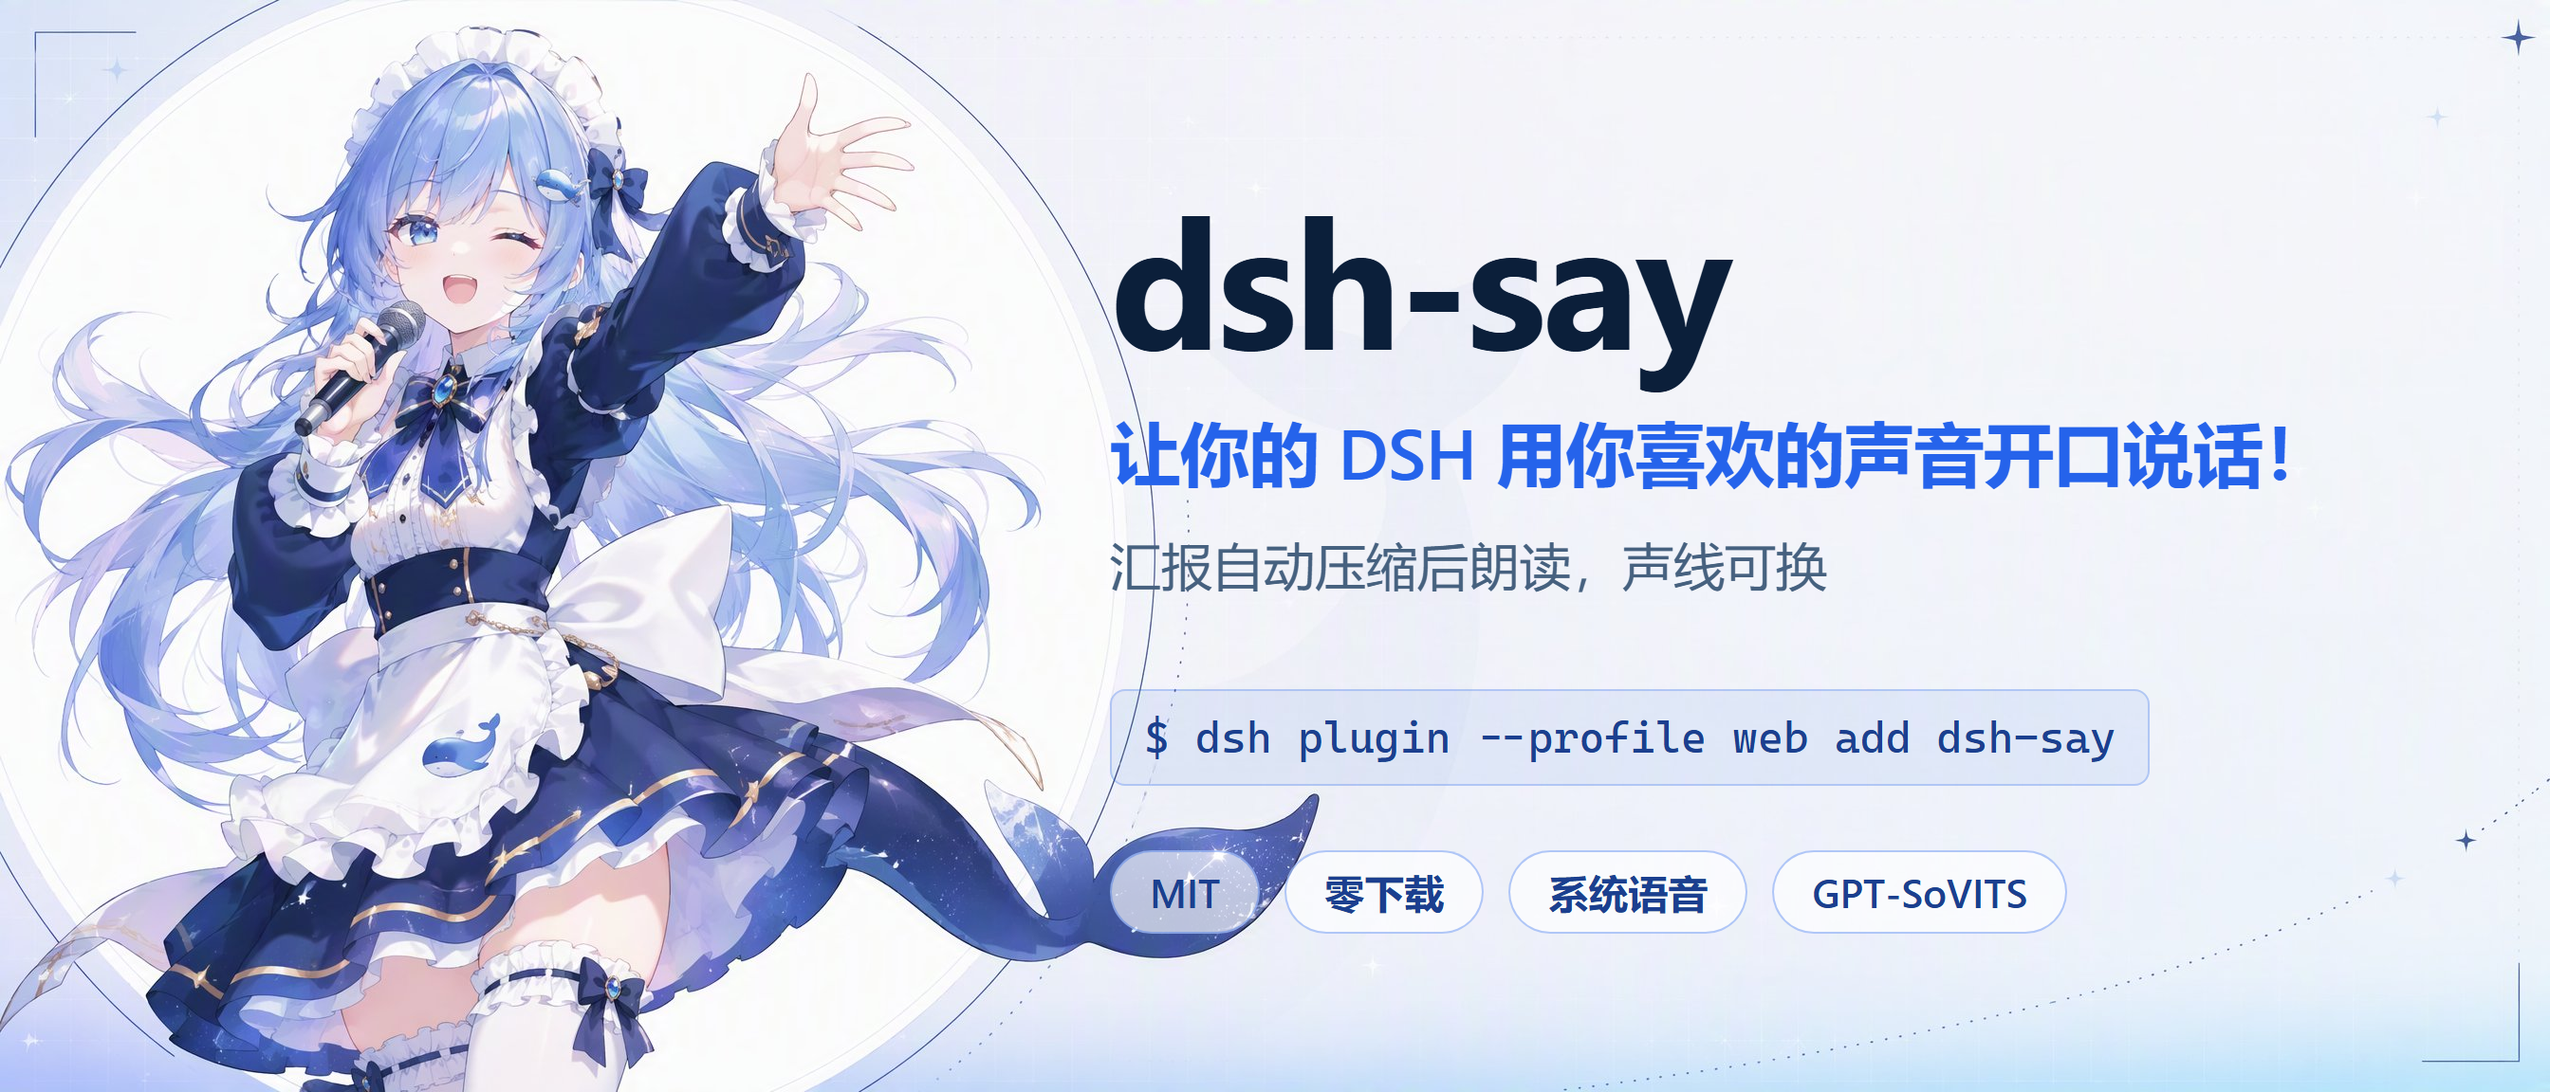
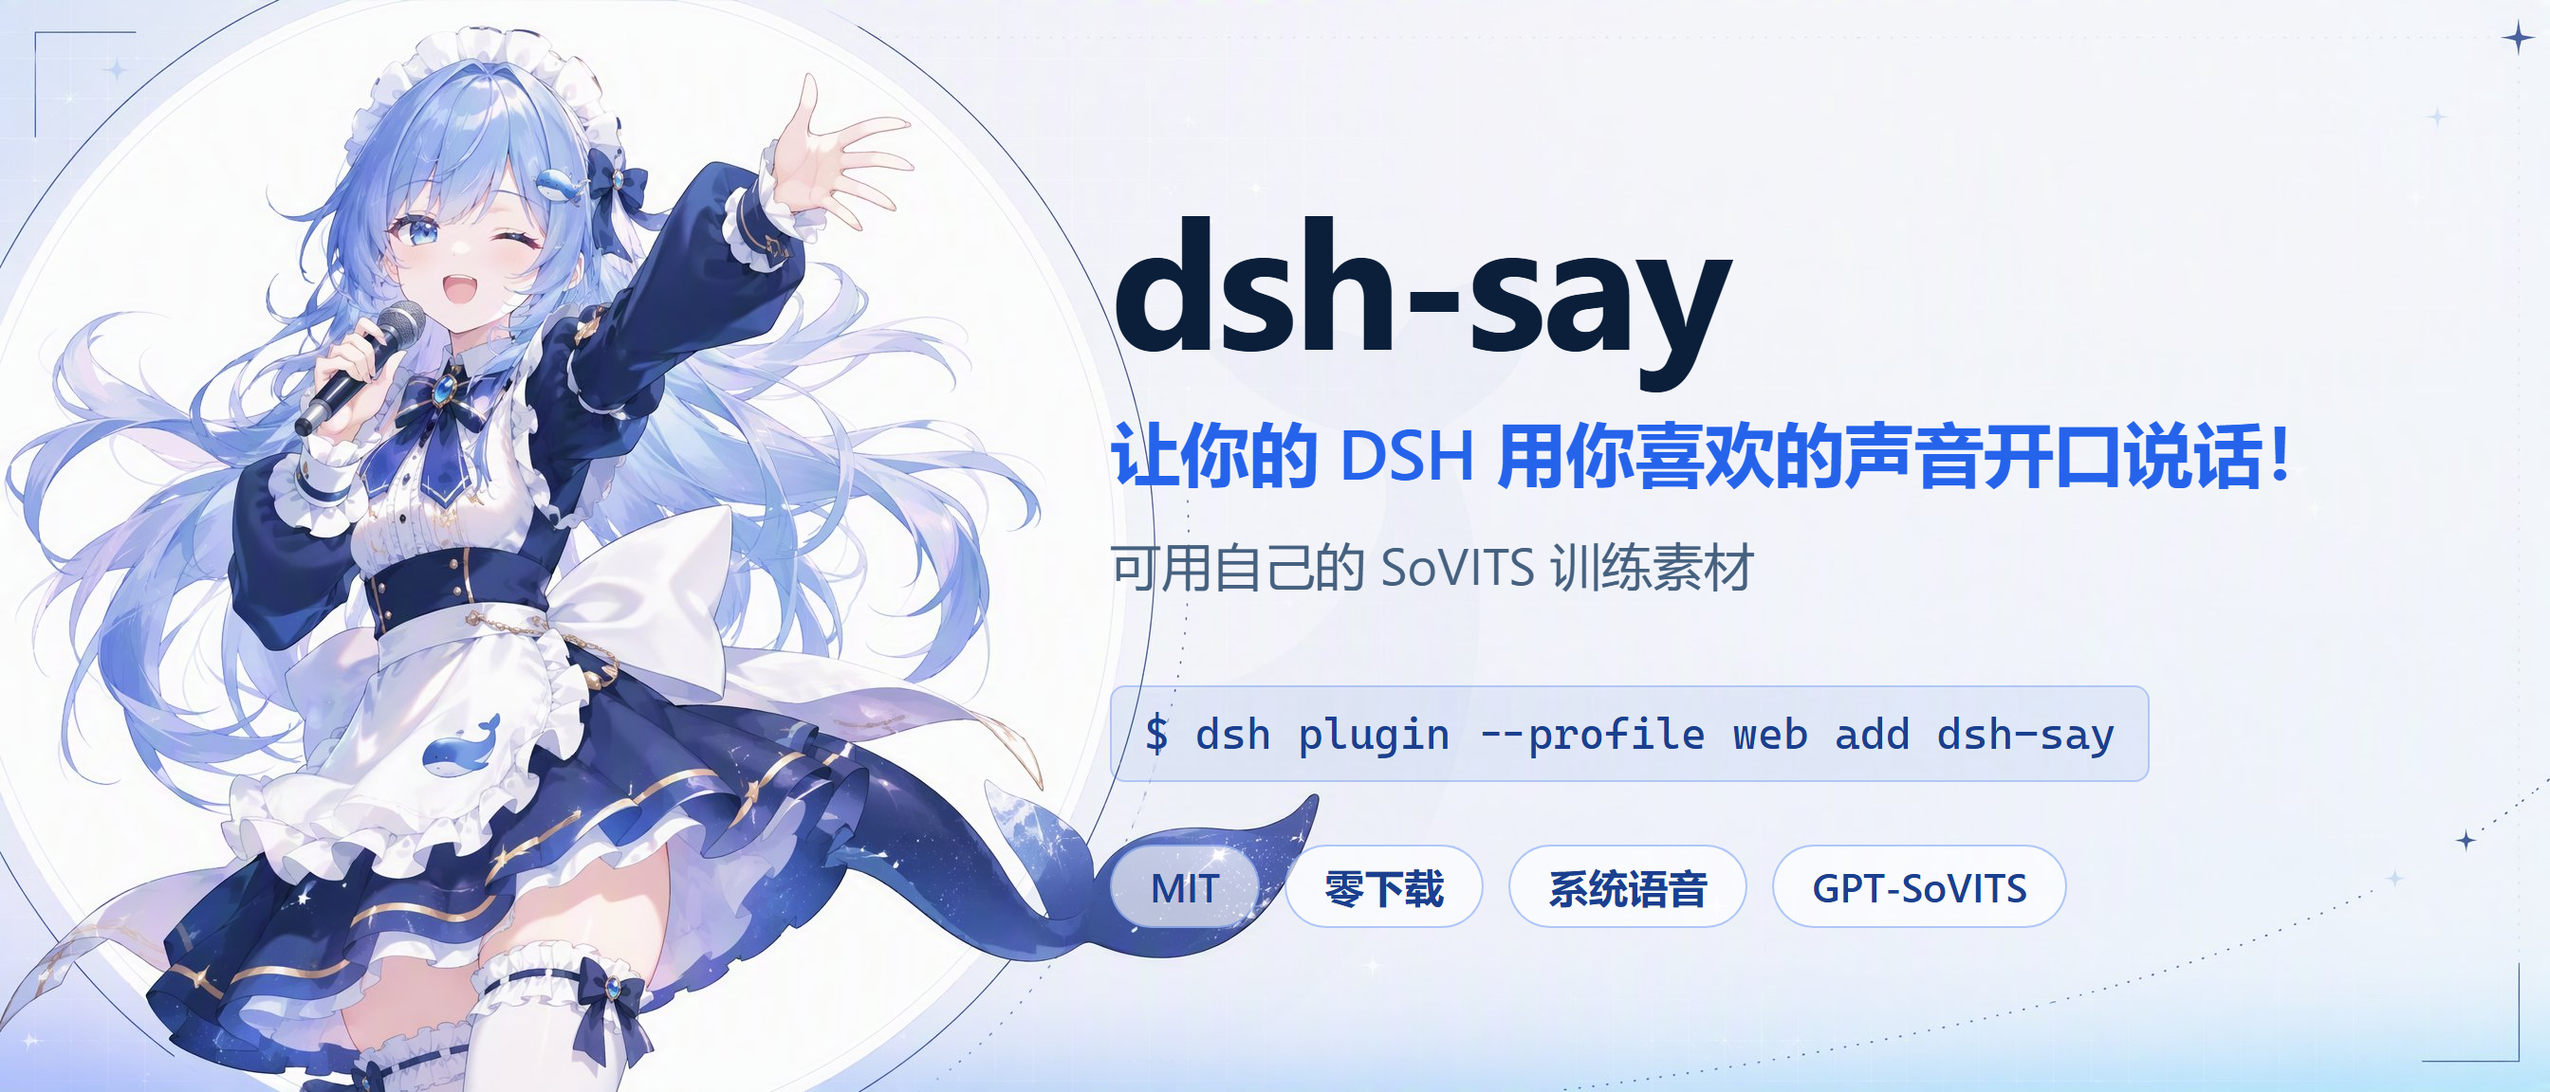
Use one standard notice everywhere, add npx install, and prompt for the engine
The declaration was three different things in eleven files: a table of owners, a
statement that the project could not license the material, a list of PRC Civil Code
articles, and a note that the file was not a license. All of it replaced by the one
sentence this space actually uses:

  本声音资源仅供学习交流，严禁用于商业用途，如有侵权，请联系作者，作者得知后会于24小时内删除。

It now appears in the repository notice, the archive notice, the site, the README,
and as the default a pack gets when registered without one (`STANDARD_NOTICE` in
lib/tools.js) - so the wording changes in one place and is checked in one place.
The base models keep their Apache-2.0 and MIT attribution: that is a condition of
redistributing them, not our own statement. The smoke test asserts the sentence and
that attribution, where it used to assert the wording that was removed.

npx: there was no `bin`, so `npx dsh-say` could not install anything. `bin/cli.mjs`
now runs `dsh plugin --profile <p> add dsh-say` with a default profile, `--profile`
to change it, `--print` to see the command, and a named error listing the profiles
that exist rather than a pnpm failure about a missing directory. It ends by saying
the one thing it cannot do: the profile has to be restarted.

The engine prompt: onboarding asked whether to import a voice, then left the user to
discover that nothing could speak it. It now receives engine availability and, when
there is no working GPT-SoVITS, produces an explicit instruction - the official
[…]

Changed region(s): [[0.4375, 0.625, 0.8438, 0.7188], [0.4375, 0.75, 0.8125, 0.875], [0.4375, 0.5, 0.7188, 0.5625]]

diff --git a/lib/onboarding.js b/lib/onboarding.js
@@ -111,11 +111,20 @@ function questions(installedVoice) {
  * @param {object} [options.agent] the exact live calling Agent (required: a
  *   question asked from a delegated child has no human answerer and blocks)
  * @param {string} [options.installedVoice] the voice pack currently registered
+ * @param {boolean} [options.engineAvailable] whether GPT-SoVITS can run here
+ * @param {string} [options.engineBusyReason] why it cannot, when it cannot
  * @param {AbortSignal} [options.signal]
  * @returns {Promise<{ status: 'asked'|'already-done'|'unavailable', answers?: object, note?: string }>}
  */
 export async function onboard(options) {
   const { userQuestions, agent, installedVoice, signal } = options
+  // Absent means "not determined" rather than "unavailable": a caller that cannot
+  // check the engine should not produce an installation prompt for it.
+  const engineAvailable = options.engineAvailable === true
+  const engineBusyReason = options.engineBusyReason || ''
+  // A registered pack is proof the user is after a character voice even if this
+  // run's answer is to keep the system one for now.
+  const hasVoicePack = Boolean(installedVoice)
 
   if (isOnboarded()) return { status: 'already-done' }
   if (!userQuestions || typeof userQuestions.ask !== 'function') {
@@ -172,8 +181,30 @@ export async function onboard(options) {
   writeSettings(settingsPatch)
 
   const todos = []
-  if (/导入别的声线/.test(voiceChoice)) {
-    todos.push('用户要导入别的声线：问清楚 GPT-SoVITS 的安装路径、模型权重位置、以及 3-10 秒参考音，然后用 tts_voices action=add 登记')
+  const wantsVoice = /导入别的声线/.test(voiceChoice)
+
+  // A character voice needs GPT-SoVITS running. Saying so at this point - rather
+  // than letting the user discover it when nothing comes out of the speakers - is
+  // the difference between a feature and a dead end, so the engine check produces
+  // an explicit instruction with the download link and the measured size.
+  if (engineAvailable !== true && (wantsVoice || hasVoicePack)) {
+    const official = 'https://huggingface.co/lj1995/GPT-SoVITS-windows-package/resolve/main/GPT-SoVITS-v3lora-20250228.7z'
+    todos.push(
+      [
+        '用户想要角色声线，但本机没有可用的 GPT-SoVITS 引擎' + (engineBusyReason ? `（${engineBusyReason}）` : ''),
+        '明确告诉用户这一步，不要说"已经装好了"',
+        '然后：',
+        `① 说明需要先有一个能跑的 GPT-SoVITS。官方 Windows 整合包 ${official}（6.4 GB，解压双击 _go-webui.bat 即可，不用装 Python）`,
+        '② 说明本项目的发布包给的是模型和声线，不是运行时；两者不冲突，且发布包比整合包小得多',
+        '③ 用户同意后，用 voice-setup 技能把声线装上：发布包下载到 Downloads 后跑 `node scripts/install-voice.mjs`（自动找到它），它会解压、把 base 模型铺进引擎、登记声线包',
+        '④ 装完用 tts_voices action=list 确认登记的是声线权重而不是 base 模型（gpt= 不该是 s1v3.ckpt，sovits= 不该是 s2Gv2ProPlus.pth）—— 选错时安装会报成功，只有听的时候才发现声音不对',
+      ].join('\n  '),
+    )
+  } else if (wantsVoice && installedVoice) {
+    todos.push('用户要改用已有的声线包：确认引擎可用后把它设为默认，然后念一句验证')
+  }
+  if (wantsVoice && !installedVoice && engineAvailable === true) {
+    todos.push('用户要导入别的声线：问清楚模型权重位置和 3-10 秒参考音，然后用 tts_voices action=add 登记')
   }
   if (/现在设定一个/.test(soulChoice)) {
     todos.push('用户要现在设人设：问清楚角色的性格与语气，写进 soul/ 目录（可先复制 _template.md）')

diff --git a/lib/tools.js b/lib/tools.js
@@ -19,6 +19,17 @@ import { SETTING_KEYS, applySetting, readSettings, settingsPath, writeSettings }
 import { ensureVoicesDir, findVoicePack, listVoicePacks, pickVoicePack } from './voice-store.js'
 
 /**
+ * The notice written into a pack that is registered without one.
+ *
+ * This is the wording used across the project for the bundled voice: learning and
+ * exchange only, no commercial use, removed on request. It states the user's
+ * obligations rather than claiming a grant, because a maintainer of a cloned
+ * character voice holds nothing to grant.
+ */
+export const STANDARD_NOTICE =
+  '本声音资源仅供学习交流，严禁用于商业用途，如有侵权，请联系作者，作者得知后会于24小时内删除。'
+
+/**
  * Read the report persona that `soul/` describes: which voice pack to speak
  * with, and the behaviour notes a report-writing agent should follow.
  *
@@ -453,11 +464,10 @@ export async function voices(args, ctx) {
     const version = args.version || gptsovits.versionFromDirName(sovits.split('/')[0] || sovits.split('\\')[0]) || ctx.config.engines.gptSovits.version
     writeFileSync(
       join(dir, 'pack.json'),
-      // `notice` records where the material came from and what terms the user is
-      // working under. It is a note, not a license this plugin can grant: the
-      // rights in a cloned voice belong to whoever owns the character and the
-      // recording. `license` is still read for packs written by older versions.
-      `${JSON.stringify({ name, version, gpt, sovits, notice: args.notice || args.license || '' }, null, 2)}\n`,
+      // `notice` records the material's terms; a pack registered without one gets
+      // the project's standard learning-use notice. `license` is still read for
+      // packs written by older versions.
+      `${JSON.stringify({ name, version, gpt, sovits, notice: args.notice || args.license || STANDARD_NOTICE }, null, 2)}\n`,
       'utf8',
     )
 
@@ -634,7 +644,7 @@ export function defineTools() {
           gpt: { type: 'string', description: 'add: GPT checkpoint path relative to the engine root, e.g. GPT_weights_v4/voice-e10.ckpt.' },
           sovits: { type: 'string', description: 'add: SoVITS weight path relative to the engine root, e.g. SoVITS_weights_v4/voice_e10_s220.pth.' },
           version: { type: 'string', description: 'add: model version (v2ProPlus, v4, ...). Inferred from the weights paths when omitted.' },
-          notice: { type: 'string', description: 'add: where this material came from and the terms you are working under, in your own words. A note for your records — it grants nothing.' },
+          notice: { type: 'string', description: 'add: a note about the material, for your own records. Defaults to the project\'s standard learning-use notice.' },
           license: { type: 'string', description: 'add: accepted as an alias for notice, for callers written against older versions.' },
         },
         required: ['action'],

diff --git a/lib/index.js b/lib/index.js
@@ -14,6 +14,7 @@ import { dirname, join } from 'node:path'
 import { fileURLToPath } from 'node:url'
 
 import { Config, resolveConfig } from './lib/config.js'
+import { discover as discoverGptSovits } from './lib/engines/gptsovits.js'
 import { isOnboarded, onboard } from './lib/onboarding.js'
 import { readSettings, settingsPath } from './lib/settings.js'
 import { defineTools } from './lib/tools.js'
@@ -78,12 +79,19 @@ export function apply(ctx, rawConfig) {
                 if (!force && isOnboarded()) return { status: 'already-done' }
                 const packs = listVoicePacks({ voicesDir: config.voicesDir })
                 const healthy = packs.find((pack) => !pack.problem)
-                return onboard({
-                  userQuestions: ctx.get('userQuestions'),
-                  agent: execution?.agent,
-                  installedVoice: healthy ? healthy.name : '',
-                  signal: execution?.signal,
-                })
+                // Whether GPT-SoVITS can run at all decides one of the questions:
+                // asking a user to import a voice when there is no engine to speak
+                // it produces a dead end, so the engine is offered first.
+                return discoverGptSovits(config.engines.gptSovits, { force: true })
+                  .then((engine) => onboard({
+                    userQuestions: ctx.get('userQuestions'),
+                    agent: execution?.agent,
+                    installedVoice: healthy ? healthy.name : '',
+                    engineAvailable: engine?.available === true,
+                    engineRoot: engine?.engineRoot || '',
+                    engineBusyReason: engine?.reason || '',
+                    signal: execution?.signal,
+                  }))
               },
               measureDuration: (file) => audioDuration(file),
             }),

diff --git a/site/index.html b/site/index.html
@@ -197,7 +197,7 @@
 
         <div class="notice">
           <p class="notice-title"><span class="zh">用之前先读声明</span><span class="en">Read the notice first</span></p>
-          <p><span class="zh">本声线仅用于学习和研究讨论，禁止商用，最终版权归米哈游所有。</span><span class="en">Learning and research use only. Non-commercial. Rights to the character and voice belong to miHoYo.</span></p>
+          <p><span class="zh">本声音资源仅供学习交流，严禁用于商业用途，如有侵权，请联系作者，作者得知后会于24小时内删除。</span><span class="en">This voice resource is for learning and exchange only. Commercial use is strictly prohibited. If it infringes any right, contact the author and it will be removed within 24 hours.</span></p>
         </div>
       </div>
     </div>

diff --git a/README.md b/README.md
@@ -28,10 +28,18 @@
 ### 1 · 装插件
 
 ```sh
+npx dsh-say
+```
+
+**就这一条，不用参数。** 它默认装进 `web` profile；用别的 profile 加 `--profile <名字>`，想看它要执行什么加 `--print`。
+
+等价的手写命令（`npx` 那条就是替你跑这个）：
+
+```sh
 dsh plugin --profile web add dsh-say
 ```
 
-**然后重启 profile** —— 这一步必须由你做，命令行没法替你重启你正开着的会话。
+**然后重启 profile** —— 这一步必须由你做，命令行没法替你重启你正开着的会话。`npx` 跑完会把这句再说一遍，因为它只负责装，重启不了你的会话。
 
 装完就结束。这条命令会把包装好、登记进 profile、并自动应用本包自带的组合层，`tts_*` 工具在重启后出现。
 
@@ -160,7 +168,7 @@ node scripts/install-voice.mjs --from "D:/downloads/某个.zip" --engine "D:/GPT
 > 还没有的话，官方 Windows 整合包解压双击即可（[下载](https://huggingface.co/lj1995/GPT-SoVITS-windows-package/resolve/main/GPT-SoVITS-v3lora-20250228.7z)，6.4 GB）。
 > **两者不冲突**：整合包负责运行时，Releases 那个包负责让它用银狼的声音，而且比整合包自带的那套小得多。
 
-装之前先读 [`voice/NOTICE.txt`](voice/NOTICE.txt)（素材来源说明，不是许可证）。
+装之前先读 [`voice/NOTICE.txt`](voice/NOTICE.txt)：**本声音资源仅供学习交流，严禁用于商业用途，如有侵权，请联系作者，作者得知后会于24小时内删除。**
 
 ---
 
@@ -296,7 +304,7 @@ The default backend is whatever speech voices your operating system already has,
 dsh plugin --profile web add dsh-say
 ```
 
-Restart the profile, then ask the agent to *"say hello out loud"*. The command installs the package, registers it in the profile, and applies the bundle layer this package ships; the `tts_*` tools appear after the restart.
+Restart the profile, then ask the agent to *"say hello out loud"*. `npx dsh-say` does the same thing with no arguments and then repeats the restart step, because installing is all it can do — it cannot restart your session.
 
 | Tool | Purpose |
 |:--|:--|
@@ -349,7 +357,7 @@ trainable material:
 A wrong transcript is worse than a missing one, so none is invented for the five:
 the emotion in the filename is a label for the listener, not the line being spoken.
 
-Read [`voice/NOTICE.txt`](voice/NOTICE.txt) before installing — a materials notice, not a license.
+Read [`voice/NOTICE.txt`](voice/NOTICE.txt) before installing: **this voice resource is for learning and exchange only; commercial use is strictly prohibited; if it infringes any right, contact the author and it will be removed within 24 hours.**
 
 ---
 

diff --git a/skills/voice-setup/SKILL.md b/skills/voice-setup/SKILL.md
@@ -122,15 +122,15 @@ node scripts/install-voice.mjs
 
 **装完立刻验证**：跑 `tts_voices action=list`，确认登记的是**声线权重**而不是 base 模型（`gpt=` 应含声线名，不该是 `s1v3.ckpt`；`sovits=` 不该是 `s2Gv2ProPlus.pth`）。**这一步不能省** —— 名字选错时安装会报成功，只有听的时候才发现声音不对。
 
-## 装角色声线时：素材声明（不要说错）
+## 装角色声线时：素材声明
 
-用户要装"角色声线"时，把来历说清楚，**不要替权利人表态**。
+用户要装"角色声线"时，把这句话说清楚：
 
-- 代码是 MIT，**素材不在那个许可范围内**。
-- **参考音是权利人的游戏原声**，不是本项目录的。角色与声音的权利属于权利人（自带那条属于米哈游）。
-- **本项目不持有这些权利，所以既不能授予、也无权禁止。** 别说成"本插件授权你非商用"或"本项目禁止你商用"；商用许可只有权利人能给。
+> **本声音资源仅供学习交流，严禁用于商业用途，如有侵权，请联系作者，作者得知后会于24小时内删除。**
 
-装之前让用户读 `voice/NOTICE.txt`。**不要**补一句"放心用"或"我保证合规"。
+这句就写在包内 `NOTICE-weights.txt` 和仓库的 `voice/NOTICE.txt` 里，让用户读一眼。
+
+**不要多做两件事**：不要补一句"放心用"或"我保证合规"；也不要替任何人表态权利归属。**不要给法律意见。**
 
 ## 排错
 

diff --git a/docs/VOICES.md b/docs/VOICES.md
@@ -56,4 +56,4 @@ Only register material you are allowed to use, and think about what that means b
 - **A reference clip** — if it is an excerpt of existing audio (a game, a film, a recording), then it is the rights holder's work, not yours, even though you are the one registering it.
 - **Redistribution** — do not publish a voice pack you do not own. dsh-say never will; that is why `voicesDir` lives in your home directory and not in the package.
 
-Record where the material came from in `pack.json`'s `notice` field when you register, so your future self knows the constraints. It is a **note for your records, not a license**: registering a pack grants nothing, because the rights in a cloned voice belong to whoever owns the character and the recording — not to you, and not to this plugin. `tts_voices add` accepts `license` as an older alias for the same field.
+Record where the material came from in `pack.json`'s `notice` field when you register, so your future self knows the constraints. Registering without one fills in the project's standard notice: 本声音资源仅供学习交流，严禁用于商业用途，如有侵权，请联系作者，作者得知后会于24小时内删除。 `tts_voices add` accepts `license` as an older alias for the same field.
